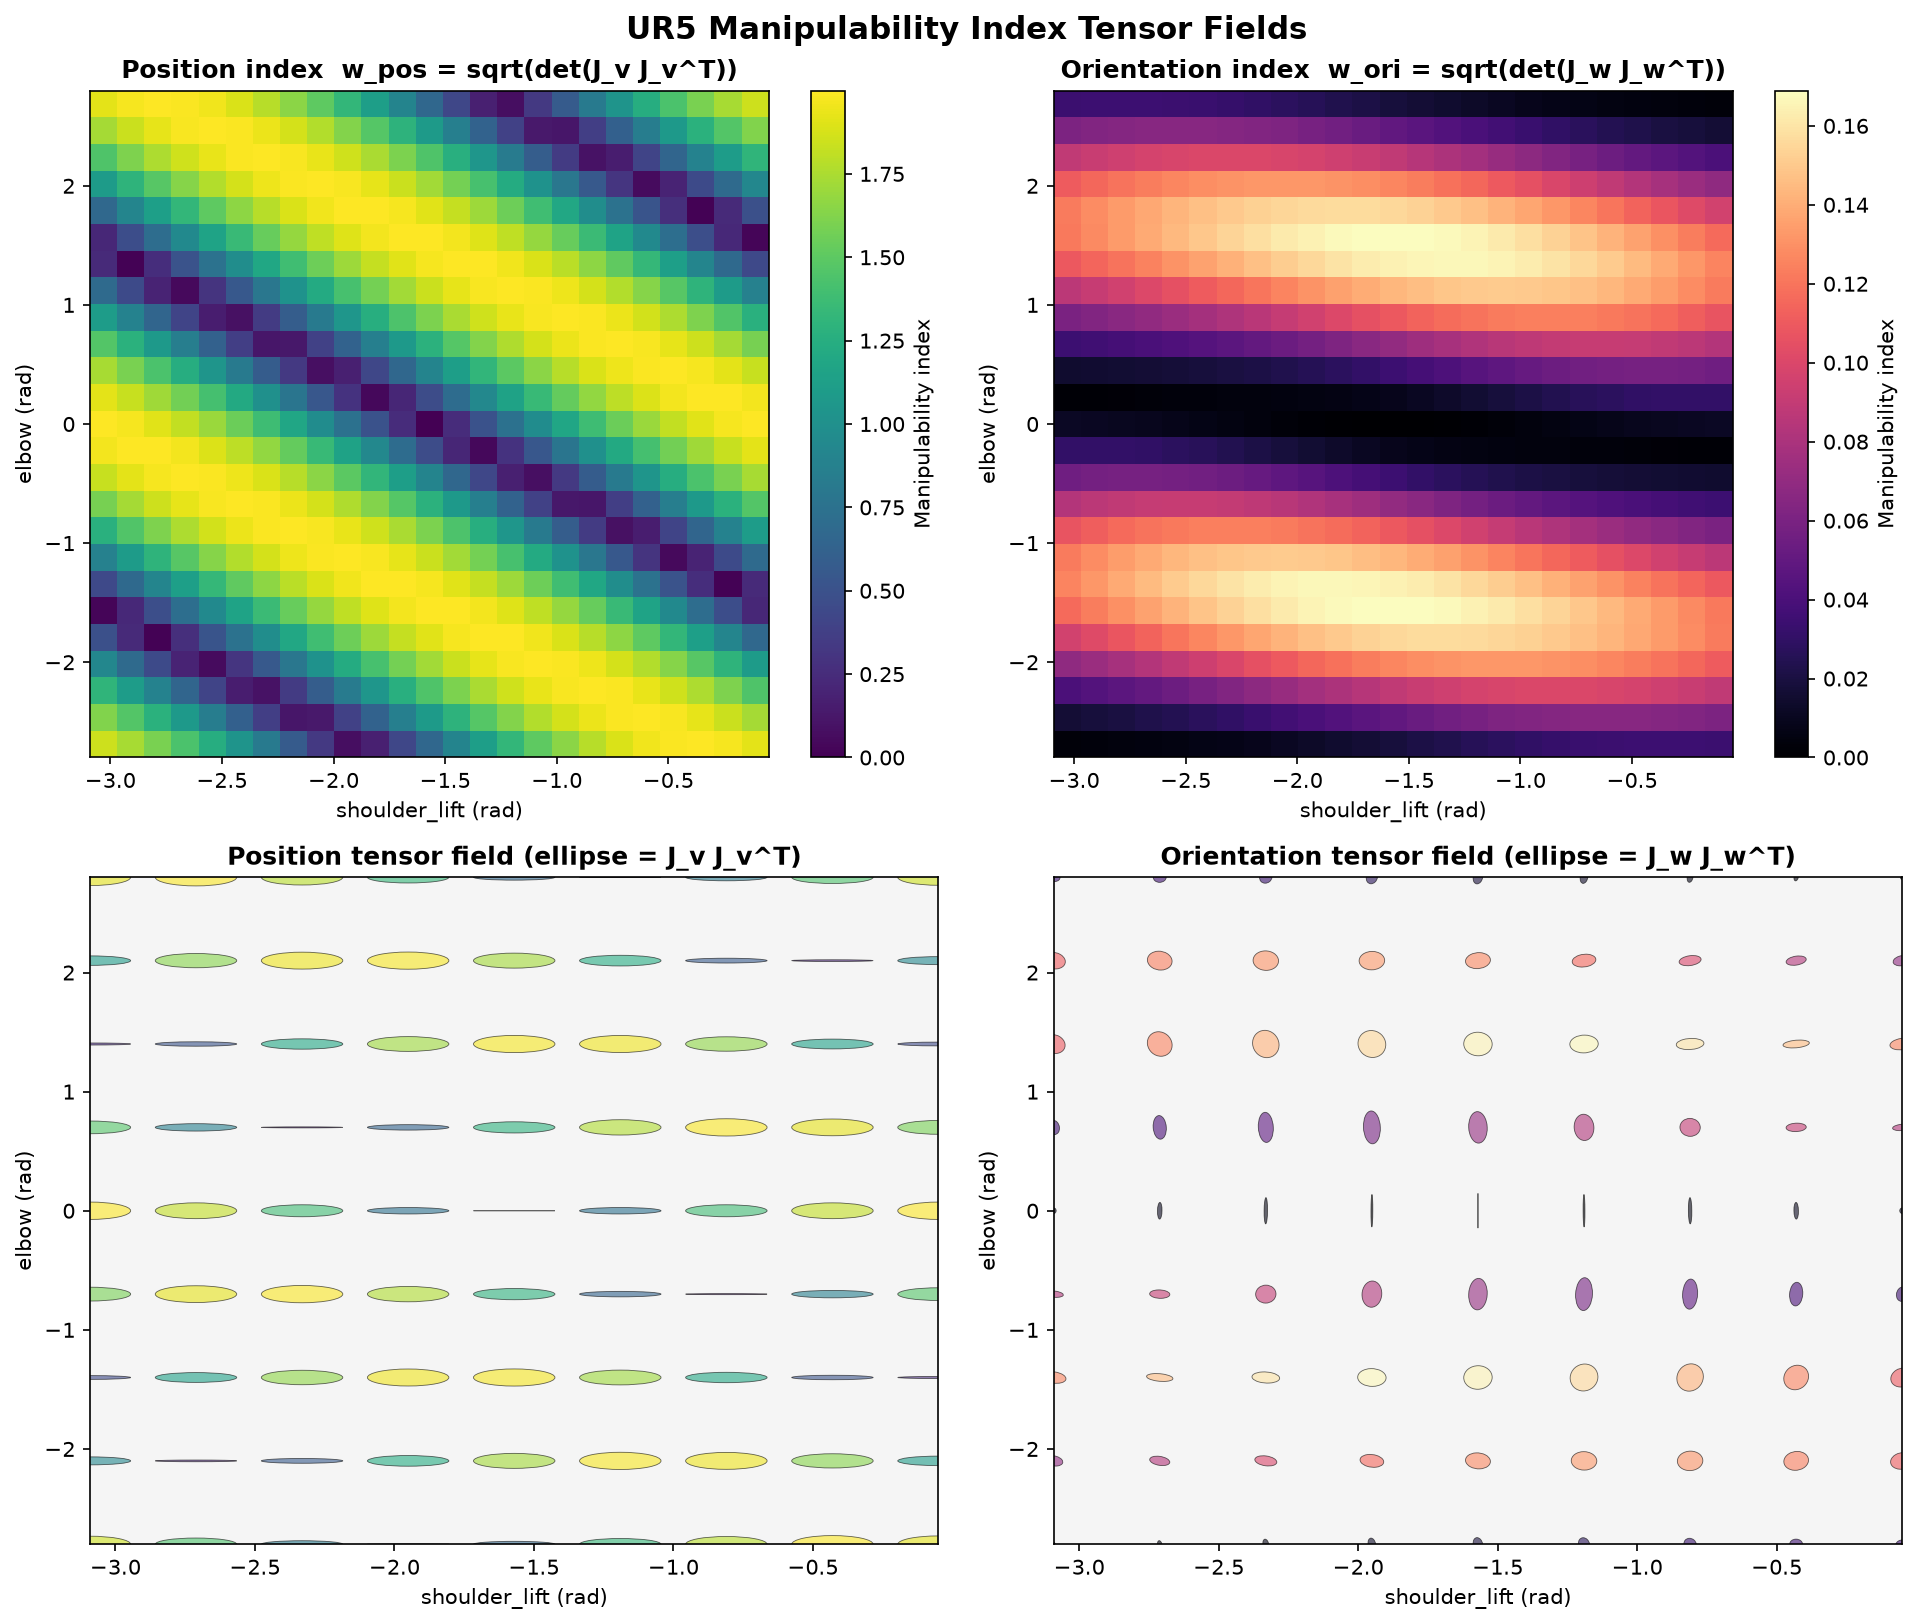
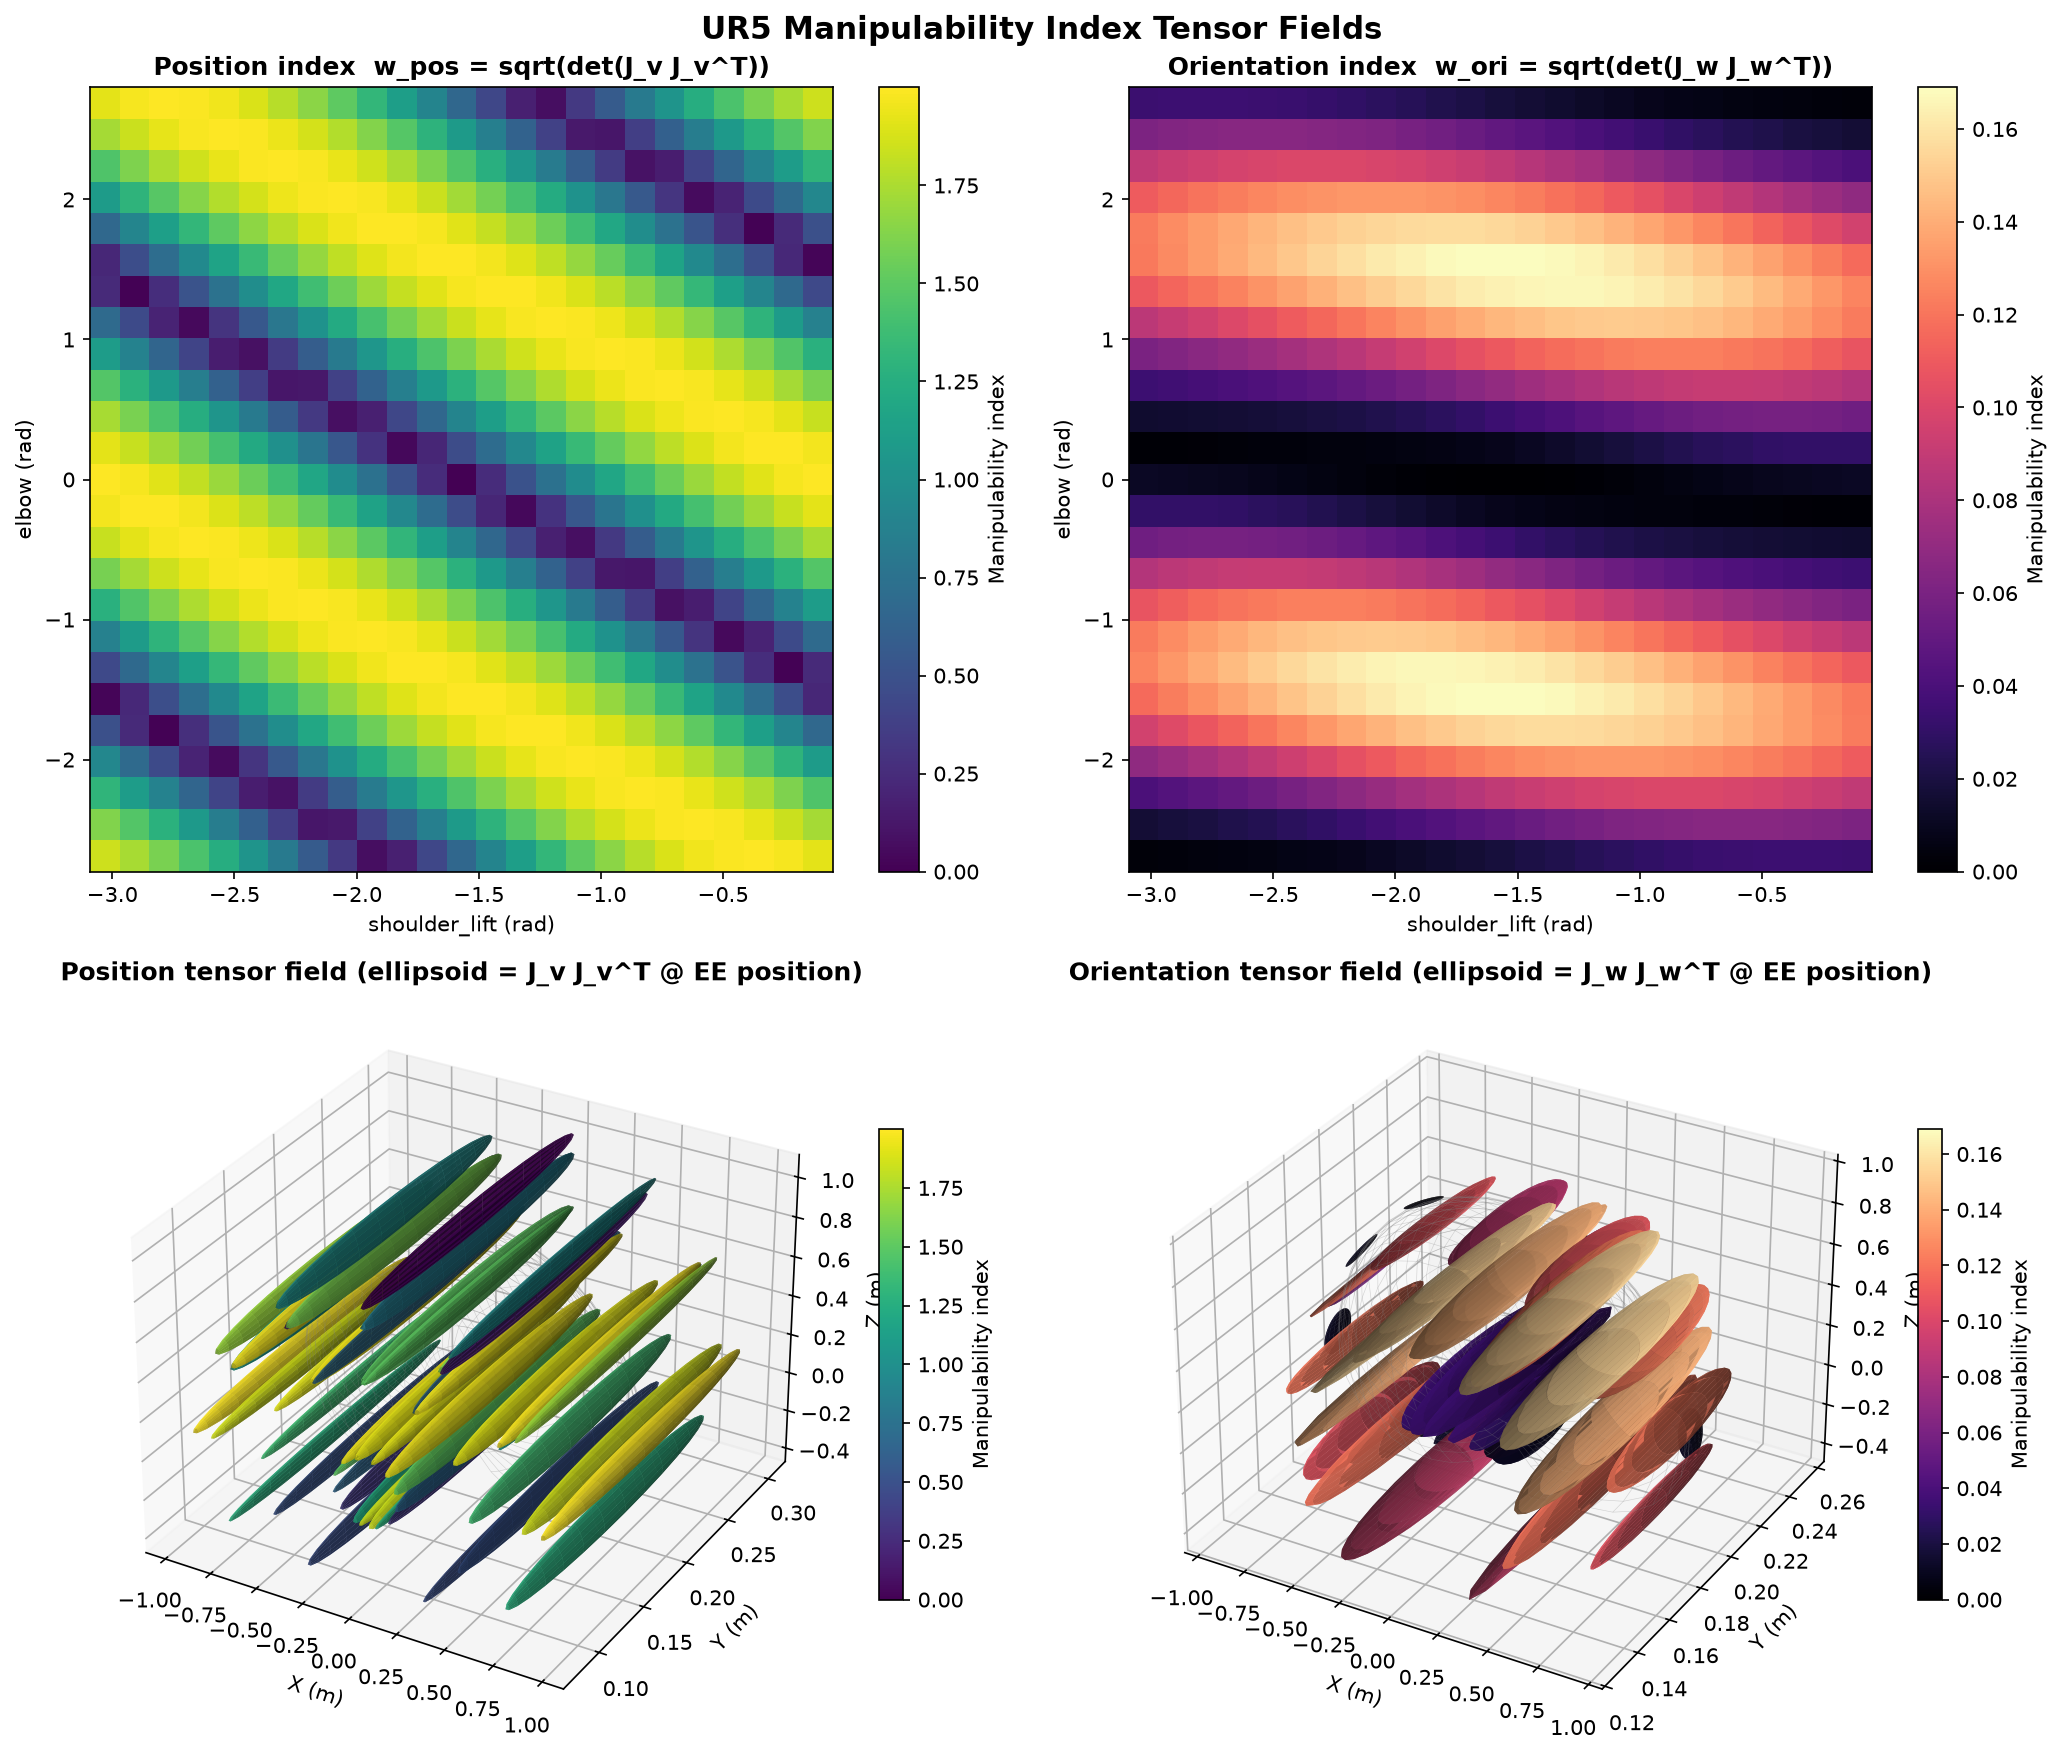
Render manipulability tensor fields as real 3D ellipsoids
Replace the 2D joint-space ellipse glyphs with true 3D ellipsoid
surfaces anchored at the actual end-effector position (forward
kinematics) for each sampled configuration. Each ellipsoid's shape
still reflects its tensor's true anisotropy; size is normalized
per-point for legibility while magnitude is carried by color.

Claude-Session: https://claude.ai/code/session_01VpU3WyGik6PDS9fHhayekh

diff --git a/Examples/intermediate_examples/manipulability_tensor_field_ur5_demo.py b/Examples/intermediate_examples/manipulability_tensor_field_ur5_demo.py
@@ -17,10 +17,12 @@ scalar Yoshikawa manipulability index:
     w(q) = sqrt(det(A(q)))
 
 The scalar indices are rendered as heatmaps; the tensors themselves are
-drawn as ellipse glyphs (their eigenvector/eigenvalue structure projected
-onto the swept plane) so the field's *directionality* -- not just its
-magnitude -- is visible, which is what makes it a tensor field rather than
-a scalar one.
+rendered as true 3-D ellipsoid surfaces, each placed at the robot's actual
+end-effector position (from forward kinematics) for that grid point, with
+the ellipsoid's own axes given by the eigenvectors/eigenvalues of the 3x3
+tensor. That is what makes this a *tensor field* over the workspace rather
+than a scalar one: at every sampled point in space it carries the full
+directional (not just magnitude) velocity-capability information.
 
 Usage:
     python manipulability_tensor_field_ur5_demo.py
@@ -28,7 +30,8 @@ Usage:
 Expected Output:
     - Console summary of the index range for both fields
     - "manipulability_tensor_field_ur5.png" with four panels: the two
-      scalar-index heatmaps and the two tensor-glyph fields
+      scalar-index heatmaps (top) and the two 3-D ellipsoid tensor fields,
+      anchored at the real end-effector positions (bottom)
 """
 
 import os
@@ -41,7 +44,7 @@ import matplotlib
 if "MPLBACKEND" not in os.environ:
     matplotlib.use("Agg")
 import matplotlib.pyplot as plt
-from matplotlib.patches import Ellipse
+from mpl_toolkits.mplot3d import Axes3D  # noqa: F401 (registers 3-D projection)
 
 try:
     import ManipulaPy
@@ -80,6 +83,7 @@ def build_index_tensor_fields(robot, q_fixed, sweep_joints, ranges, resolution=2
     Returns:
         dict with:
             q1_vals, q2_vals: 1D sweep axes (rad)
+            ee_positions: (res, res, 3) end-effector positions (forward kinematics)
             pos_tensor_field, ori_tensor_field: (res, res, 3, 3) SPD tensors
             pos_index, ori_index: (res, res) scalar manipulability indices
     """
@@ -87,6 +91,7 @@ def build_index_tensor_fields(robot, q_fixed, sweep_joints, ranges, resolution=2
     q1_vals = np.linspace(ranges[0][0], ranges[0][1], resolution)
     q2_vals = np.linspace(ranges[1][0], ranges[1][1], resolution)
 
+    ee_positions = np.zeros((resolution, resolution, 3))
     pos_tensor_field = np.zeros((resolution, resolution, 3, 3))
     ori_tensor_field = np.zeros((resolution, resolution, 3, 3))
     pos_index = np.zeros((resolution, resolution))
@@ -97,6 +102,8 @@ def build_index_tensor_fields(robot, q_fixed, sweep_joints, ranges, resolution=2
             q = q_fixed.copy()
             q[j1] = q1
             q[j2] = q2
+
+            ee_positions[i, j] = np.asarray(robot.forward_kinematics(q))[:3, 3]
 
             J_v, J_w = jacobian_blocks(robot, q)
             A_pos = J_v @ J_v.T
@@ -110,6 +117,7 @@ def build_index_tensor_fields(robot, q_fixed, sweep_joints, ranges, resolution=2
     return {
         "q1_vals": q1_vals,
         "q2_vals": q2_vals,
+        "ee_positions": ee_positions,
         "pos_tensor_field": pos_tensor_field,
         "ori_tensor_field": ori_tensor_field,
         "pos_index": pos_index,
@@ -117,33 +125,93 @@ def build_index_tensor_fields(robot, q_fixed, sweep_joints, ranges, resolution=2
     }
 
 
-def _tensor_glyph(ax, center, tensor_2d, scale, color):
-    """Draw one tensor's 2x2 in-plane block as an ellipse glyph at ``center``."""
-    eigvals, eigvecs = np.linalg.eigh(tensor_2d)
+def _ellipsoid_surface(center, tensor, scale, sphere_res=14):
+    """
+    Build the (X, Y, Z) mesh of the 3-D ellipsoid representing ``tensor``,
+    scaled by ``scale`` and translated to ``center``.
+
+    The ellipsoid's semi-axes are the eigenvectors of ``tensor``, scaled by
+    the square roots of its eigenvalues -- the standard velocity-ellipsoid
+    construction (``compute_ellipsoid_data`` in the singularity-analysis
+    intermediate demo uses the same eigendecomposition).
+    """
+    eigvals, eigvecs = np.linalg.eigh(tensor)
     eigvals = np.maximum(eigvals, 0.0)
-    width, height = 2.0 * scale * np.sqrt(eigvals)
-    angle = np.degrees(np.arctan2(eigvecs[1, -1], eigvecs[0, -1]))
-    ax.add_patch(
-        Ellipse(
-            center, width=width, height=height, angle=angle,
-            facecolor=color, edgecolor="black", linewidth=0.4, alpha=0.6,
-        )
+    radii = scale * np.sqrt(eigvals)
+
+    u = np.linspace(0, 2 * np.pi, sphere_res)
+    v = np.linspace(0, np.pi, sphere_res)
+    x = radii[0] * np.outer(np.cos(u), np.sin(v))
+    y = radii[1] * np.outer(np.sin(u), np.sin(v))
+    z = radii[2] * np.outer(np.ones_like(u), np.cos(v))
+
+    points = eigvecs @ np.stack([x.ravel(), y.ravel(), z.ravel()])
+    points += np.asarray(center).reshape(3, 1)
+    shape = x.shape
+    return points[0].reshape(shape), points[1].reshape(shape), points[2].reshape(shape)
+
+
+def _grid_spacing(centers):
+    """Mean nearest-neighbor distance between adjacent grid points, for auto-scaling."""
+    d_rows = np.linalg.norm(np.diff(centers, axis=0), axis=-1).mean()
+    d_cols = np.linalg.norm(np.diff(centers, axis=1), axis=-1).mean()
+    return min(d_rows, d_cols)
+
+
+def plot_3d_tensor_field(ax, centers, tensor_field, index_field, cmap_name,
+                          stride=5, sphere_res=16, fill_frac=0.8):
+    """Draw one field's tensors as 3-D ellipsoid surfaces at their real EE positions.
+
+    Each ellipsoid's own *shape* (its axis ratios) is the true tensor
+    anisotropy -- flat/needle-like exactly where the manipulator is close to
+    singular. Its overall size is normalized per-point to a fixed target
+    radius (rather than scaled by the raw, widely-varying eigenvalues) so
+    neighboring glyphs stay legible; the scalar magnitude that size would
+    otherwise have encoded is instead carried by color.
+    """
+    colormap = plt.get_cmap(cmap_name)
+    norm = plt.Normalize(vmin=np.min(index_field), vmax=np.max(index_field) + 1e-12)
+
+    sampled_centers = centers[::stride, ::stride]
+    target_radius = 0.5 * fill_frac * _grid_spacing(sampled_centers)
+
+    resolution = centers.shape[0]
+    for i in range(0, resolution, stride):
+        for j in range(0, resolution, stride):
+            tensor = tensor_field[i, j]
+            max_eigval = max(np.linalg.eigvalsh(tensor).max(), 1e-12)
+            scale = target_radius / np.sqrt(max_eigval)
+            X, Y, Z = _ellipsoid_surface(
+                centers[i, j], tensor, scale, sphere_res=sphere_res
+            )
+            color = colormap(norm(index_field[i, j]))
+            ax.plot_surface(X, Y, Z, color=color, alpha=0.85, linewidth=0, shade=True)
+
+    # Faint end-effector grid so the ellipsoids read as a field over the workspace.
+    ax.plot_wireframe(
+        centers[..., 0], centers[..., 1], centers[..., 2],
+        color="gray", linewidth=0.3, alpha=0.3,
     )
 
+    mappable = plt.cm.ScalarMappable(norm=norm, cmap=colormap)
+    mappable.set_array([])
+    return mappable
 
-def plot_index_tensor_fields(field_data, sweep_labels, glyph_stride=3):
-    """Plot scalar-index heatmaps and tensor-glyph fields for position/orientation."""
+
+def plot_index_tensor_fields(field_data, sweep_labels, ellipsoid_stride=4):
+    """Plot scalar-index heatmaps and 3-D ellipsoid tensor fields for position/orientation."""
     q1_vals, q2_vals = field_data["q1_vals"], field_data["q2_vals"]
     extent = [q1_vals[0], q1_vals[-1], q2_vals[0], q2_vals[-1]]
 
-    fig, axes = plt.subplots(2, 2, figsize=(13, 11))
+    fig = plt.figure(figsize=(14, 12))
     fig.suptitle("UR5 Manipulability Index Tensor Fields", fontsize=15, fontweight="bold")
 
-    # --- Scalar index heatmaps --------------------------------------------------
-    for ax, index_field, title, cmap in (
-        (axes[0, 0], field_data["pos_index"], "Position index  w_pos = sqrt(det(J_v J_v^T))", "viridis"),
-        (axes[0, 1], field_data["ori_index"], "Orientation index  w_ori = sqrt(det(J_w J_w^T))", "magma"),
+    # --- Scalar index heatmaps (joint-space slice) -------------------------------
+    for pos, index_field, title, cmap in (
+        (1, field_data["pos_index"], "Position index  w_pos = sqrt(det(J_v J_v^T))", "viridis"),
+        (2, field_data["ori_index"], "Orientation index  w_ori = sqrt(det(J_w J_w^T))", "magma"),
     ):
+        ax = fig.add_subplot(2, 2, pos)
         im = ax.imshow(
             index_field.T, origin="lower", extent=extent, aspect="auto", cmap=cmap,
         )
@@ -152,34 +220,23 @@ def plot_index_tensor_fields(field_data, sweep_labels, glyph_stride=3):
         ax.set_title(title, fontweight="bold")
         fig.colorbar(im, ax=ax, label="Manipulability index")
 
-    # --- Tensor glyph fields -----------------------------------------------------
-    for ax, tensor_field, index_field, title, cmap in (
-        (axes[1, 0], field_data["pos_tensor_field"], field_data["pos_index"],
-         "Position tensor field (ellipse = J_v J_v^T)", "viridis"),
-        (axes[1, 1], field_data["ori_tensor_field"], field_data["ori_index"],
-         "Orientation tensor field (ellipse = J_w J_w^T)", "magma"),
+    # --- 3-D ellipsoid tensor fields, anchored at the real end-effector position -
+    ee_positions = field_data["ee_positions"]
+    for pos, tensor_field, index_field, title, cmap in (
+        (3, field_data["pos_tensor_field"], field_data["pos_index"],
+         "Position tensor field (ellipsoid = J_v J_v^T @ EE position)", "viridis"),
+        (4, field_data["ori_tensor_field"], field_data["ori_index"],
+         "Orientation tensor field (ellipsoid = J_w J_w^T @ EE position)", "magma"),
     ):
-        norm = plt.Normalize(vmin=np.min(index_field), vmax=np.max(index_field) + 1e-12)
-        colormap = plt.get_cmap(cmap)
-
-        # Glyph size in data units, scaled relative to the sweep span so
-        # ellipses stay legible regardless of the raw tensor magnitude.
-        span = min(q1_vals[-1] - q1_vals[0], q2_vals[-1] - q2_vals[0])
-        max_axis = np.sqrt(np.max(np.linalg.eigvalsh(tensor_field)))
-        glyph_scale = 0.4 * span / (len(q1_vals) / glyph_stride) / max(max_axis, 1e-9)
-
-        for i in range(0, len(q1_vals), glyph_stride):
-            for j in range(0, len(q2_vals), glyph_stride):
-                tensor_2d = tensor_field[i, j][:2, :2]  # in-plane block of the 3x3 tensor
-                color = colormap(norm(index_field[i, j]))
-                _tensor_glyph(ax, (q1_vals[i], q2_vals[j]), tensor_2d, glyph_scale, color)
-
-        ax.set_xlim(extent[0], extent[1])
-        ax.set_ylim(extent[2], extent[3])
-        ax.set_xlabel(sweep_labels[0])
-        ax.set_ylabel(sweep_labels[1])
+        ax = fig.add_subplot(2, 2, pos, projection="3d")
+        mappable = plot_3d_tensor_field(
+            ax, ee_positions, tensor_field, index_field, cmap, stride=ellipsoid_stride,
+        )
+        ax.set_xlabel("X (m)")
+        ax.set_ylabel("Y (m)")
+        ax.set_zlabel("Z (m)")
         ax.set_title(title, fontweight="bold")
-        ax.set_facecolor("#f5f5f5")
+        fig.colorbar(mappable, ax=ax, shrink=0.6, label="Manipulability index")
 
     plt.tight_layout()
     save_path = OUTPUT_DIR / "manipulability_tensor_field_ur5.png"
